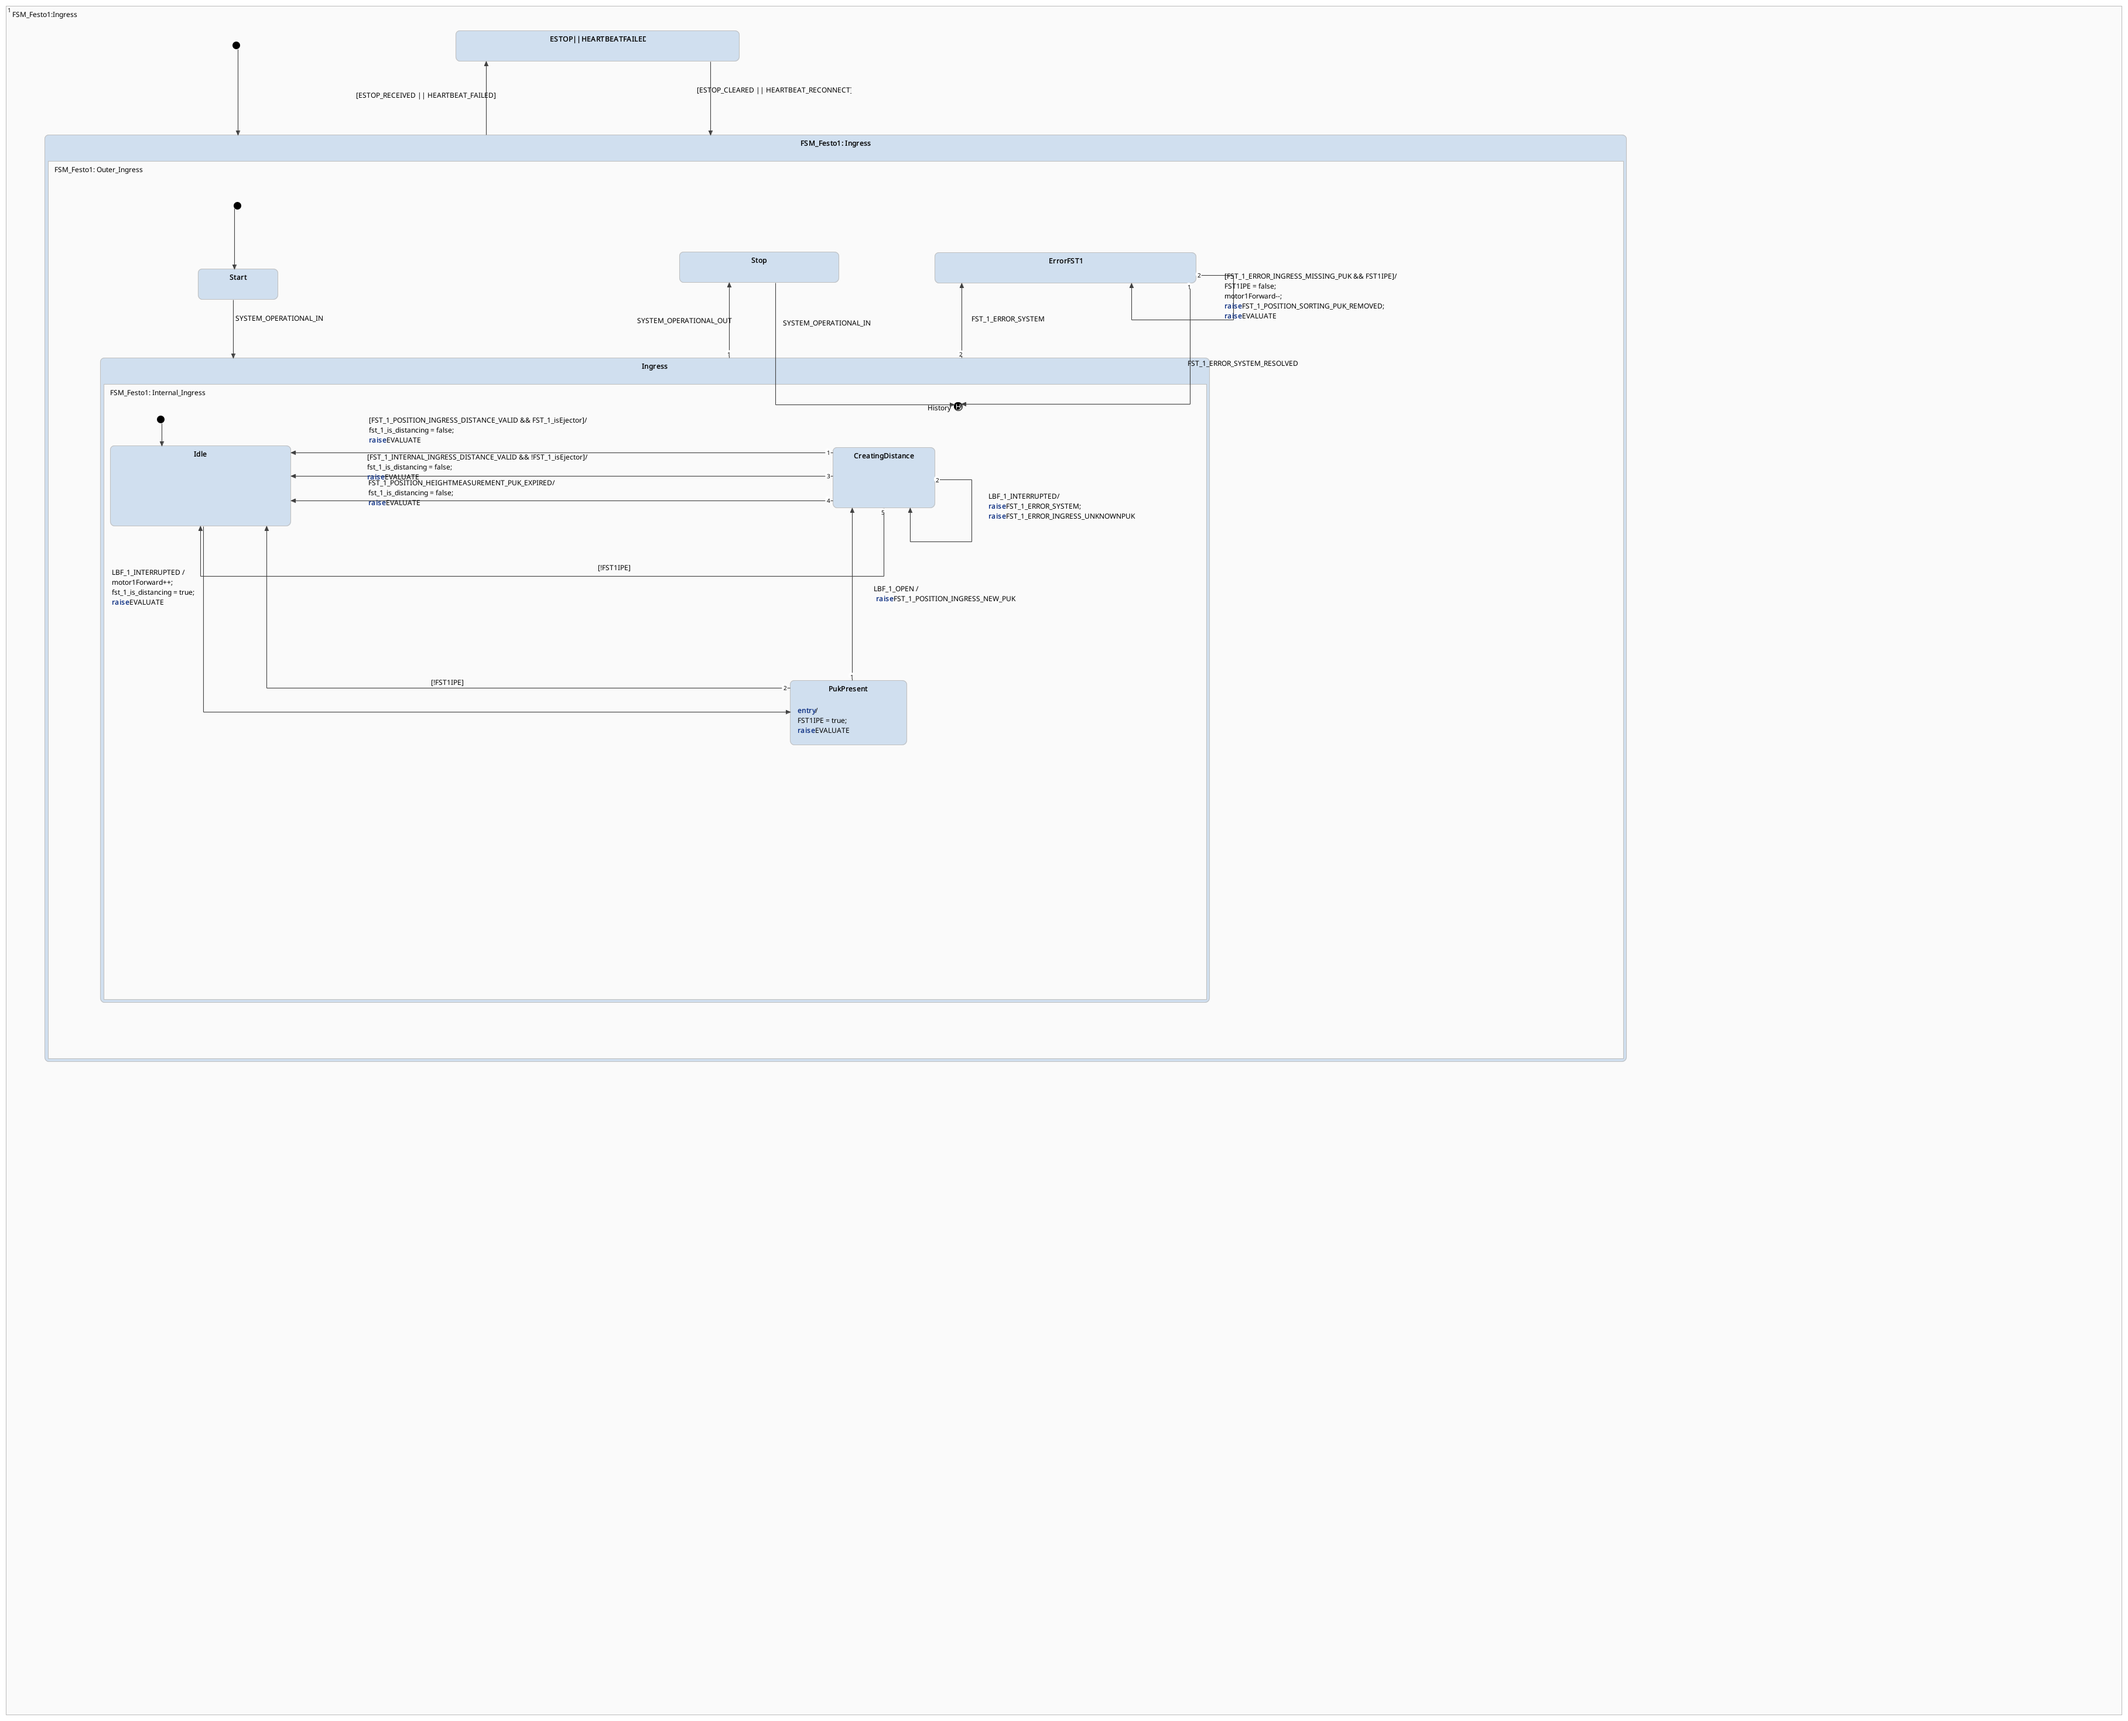
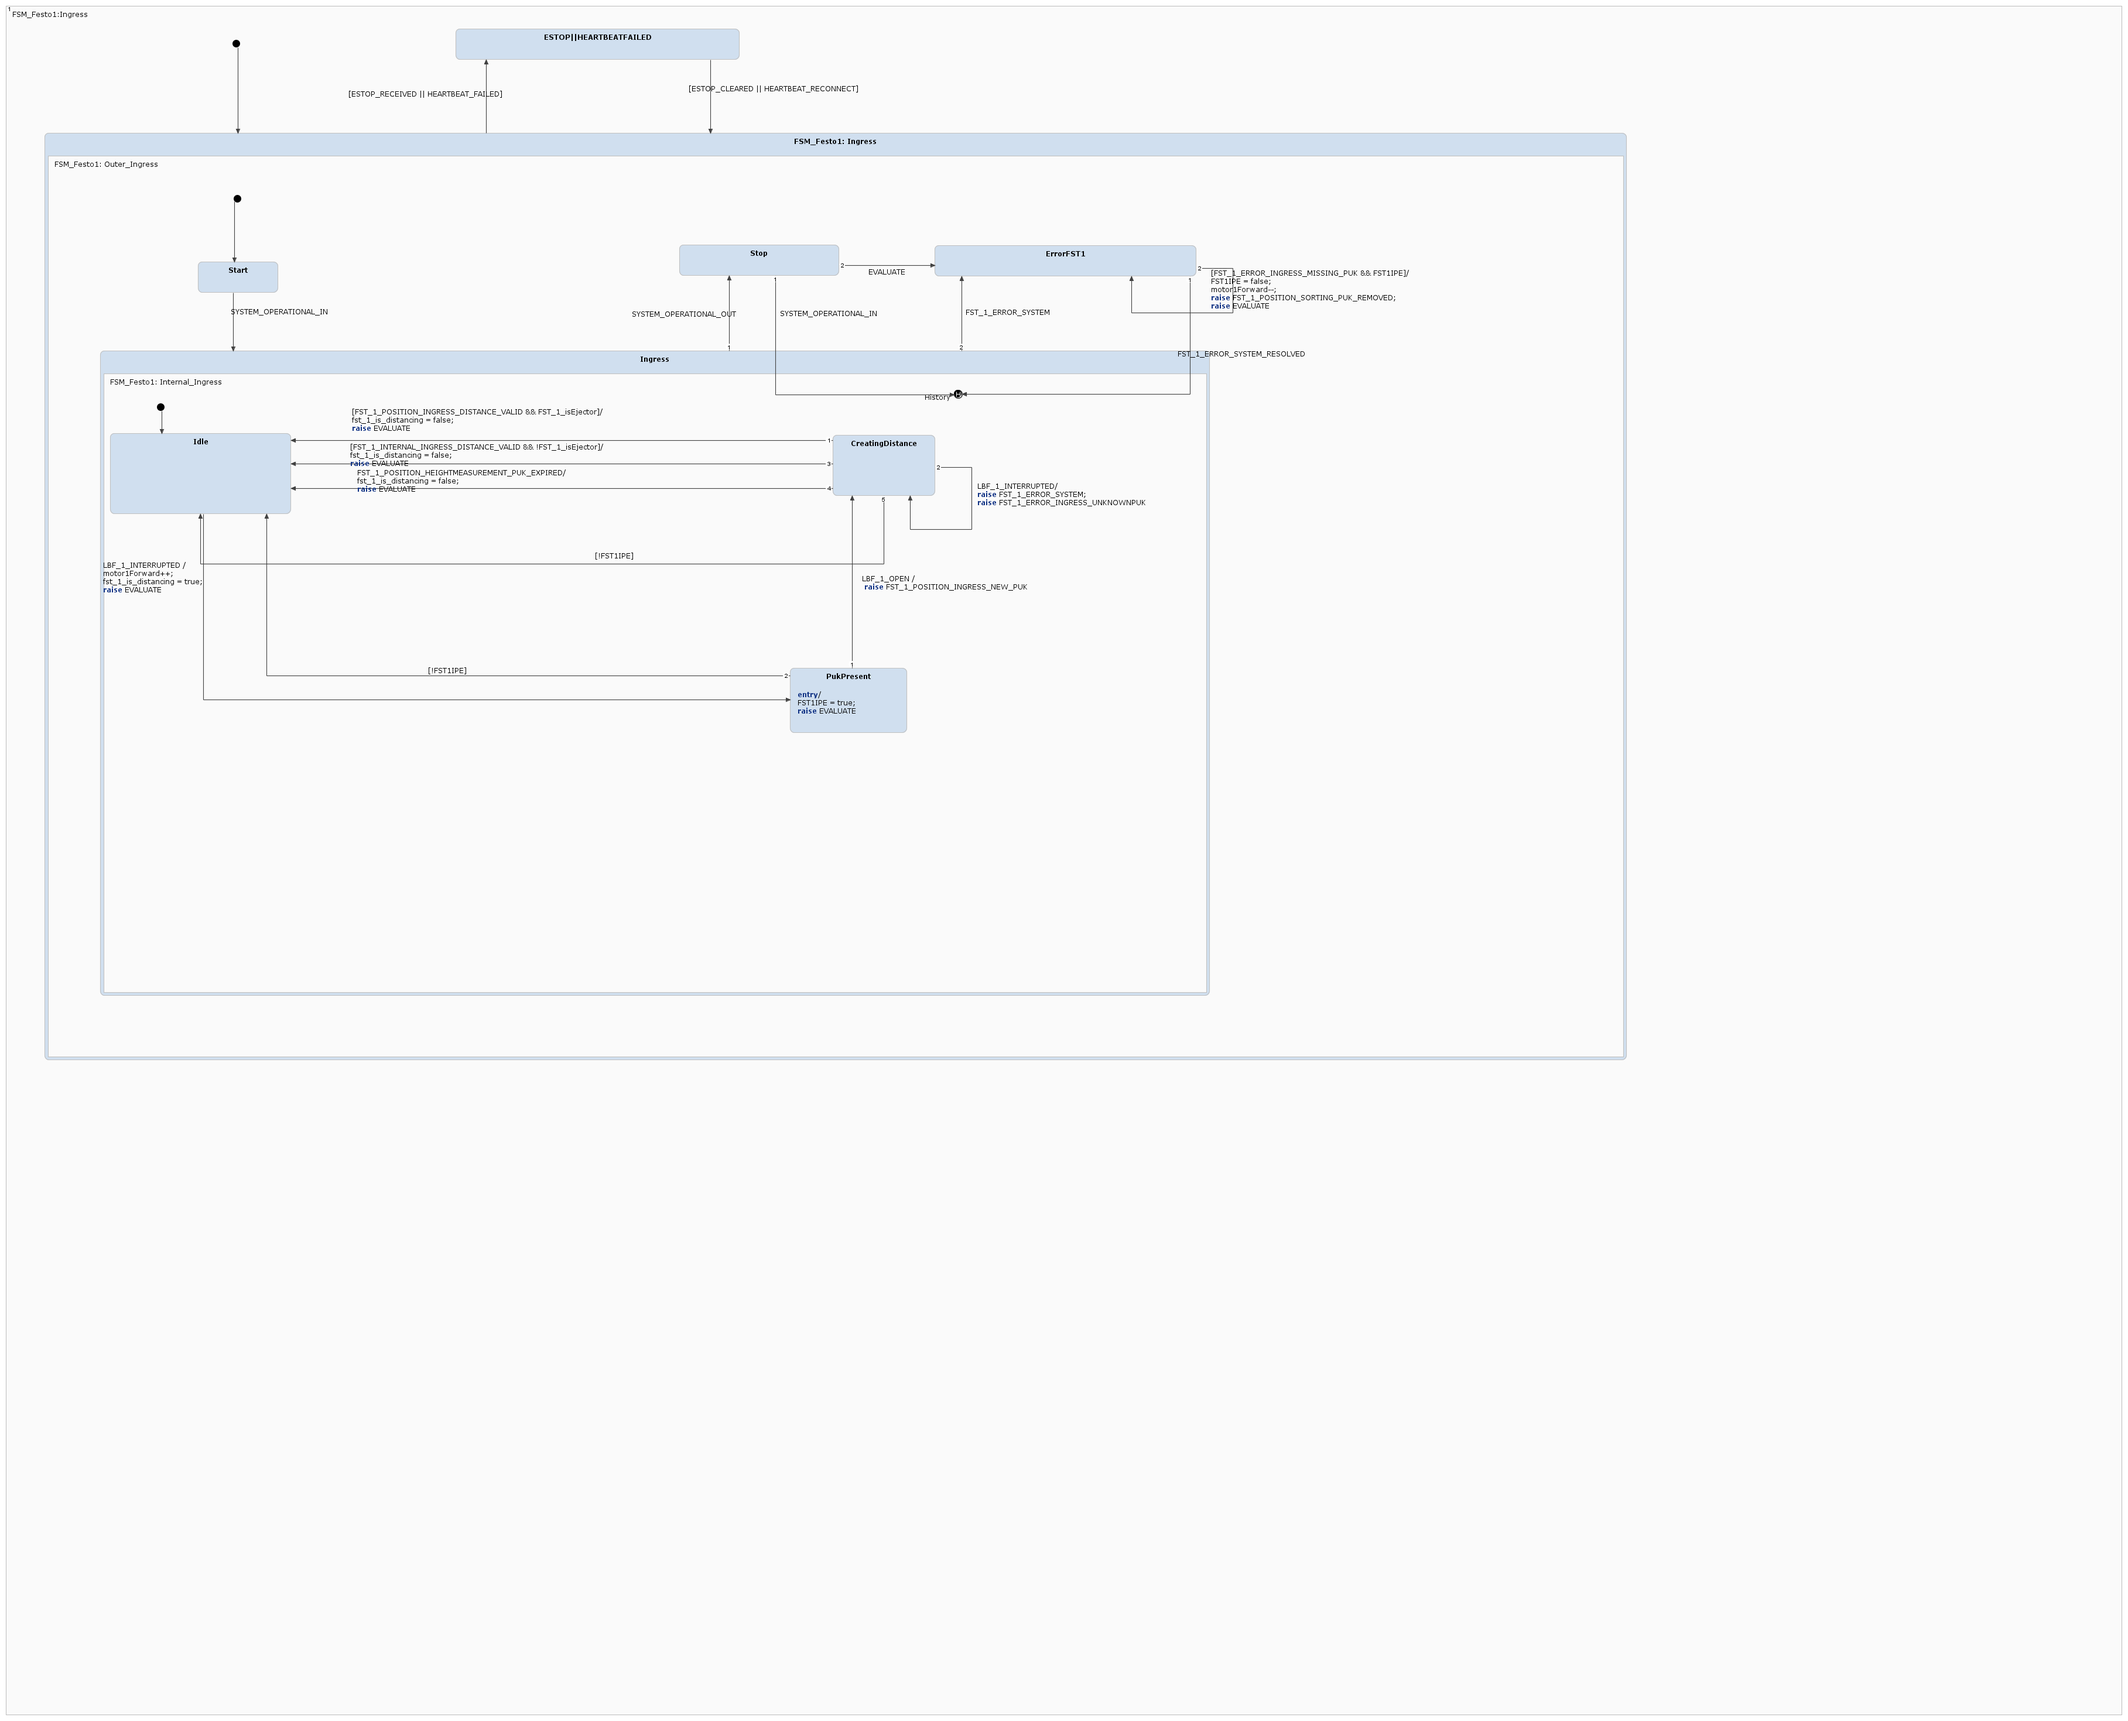
Add erronious logic to ingress1 FSM

diff --git a/src/FSM/gen/src-gen/FSM.cpp b/src/FSM/gen/src-gen/FSM.cpp
@@ -484,6 +484,11 @@ bool FSM::dispatchEvent(FSM::EventInstance* event) noexcept
 			local_FST_1_ERROR_INGRESS_MISSING_PUK_raised = true;
 			break;
 		}
+		case FSM::Event::Internal_local_EVALUATE:
+		{
+			local_EVALUATE_raised = true;
+			break;
+		}
 		case FSM::Event::Internal_local_ESTOP_CLEARED:
 		{
 			local_ESTOP_CLEARED_raised = true;
@@ -532,11 +537,6 @@ bool FSM::dispatchEvent(FSM::EventInstance* event) noexcept
 		case FSM::Event::Internal_local_FST_2_ERROR_EGRESS_MISSING_PUK:
 		{
 			local_FST_2_ERROR_EGRESS_MISSING_PUK_raised = true;
-			break;
-		}
-		case FSM::Event::Internal_local_EVALUATE:
-		{
-			local_EVALUATE_raised = true;
 			break;
 		}
 		case FSM::Event::Internal_local_FST_1_ERROR_HM_UNKNOWNPUK:
@@ -2109,6 +2109,12 @@ void FSM::raiseLocal_FST_1_ERROR_INGRESS_MISSING_PUK() {
 }
 
 
+void FSM::raiseLocal_EVALUATE() {
+	internalEventQueue.push_back(new FSM::EventInstance(FSM::Event::Internal_local_EVALUATE))
+	;
+}
+
+
 void FSM::raiseLocal_ESTOP_CLEARED() {
 	internalEventQueue.push_back(new FSM::EventInstance(FSM::Event::Internal_local_ESTOP_CLEARED))
 	;
@@ -2165,12 +2171,6 @@ void FSM::raiseLocal_FST_2_ERROR_HM_MISSING_PUK() {
 
 void FSM::raiseLocal_FST_2_ERROR_EGRESS_MISSING_PUK() {
 	internalEventQueue.push_back(new FSM::EventInstance(FSM::Event::Internal_local_FST_2_ERROR_EGRESS_MISSING_PUK))
-	;
-}
-
-
-void FSM::raiseLocal_EVALUATE() {
-	internalEventQueue.push_back(new FSM::EventInstance(FSM::Event::Internal_local_EVALUATE))
 	;
 }
 
@@ -14366,7 +14366,16 @@ sc::integer FSM::FSM_Festo1_Ingress_FSM_Festo1__Ingress_FSM_Festo1__Outer_Ingres
 				react_FSM_Festo1_Ingress_FSM_Festo1__Ingress_FSM_Festo1__Outer_Ingress_Ingress_FSM_Festo1__Internal_Ingress_History();
 				FSM_Festo1_Ingress_FSM_Festo1__Ingress_react(0);
 				transitioned_after = 0;
-			} 
+			}  else
+			{
+				if (local_EVALUATE_raised)
+				{ 
+					exseq_FSM_Festo1_Ingress_FSM_Festo1__Ingress_FSM_Festo1__Outer_Ingress_Stop();
+					enseq_FSM_Festo1_Ingress_FSM_Festo1__Ingress_FSM_Festo1__Outer_Ingress_ErrorFST1_default();
+					FSM_Festo1_Ingress_FSM_Festo1__Ingress_react(0);
+					transitioned_after = 0;
+				} 
+			}
 		} 
 		/* If no transition was taken */
 		if ((transitioned_after) == (transitioned_before))
@@ -23950,6 +23959,7 @@ void FSM::clearInternalEvents() noexcept {
 	local_FST_1_ERROR_SYSTEM_raised = false;
 	local_FST_1_INTERNAL_INGRESS_DISTANCE_VALID_raised = false;
 	local_FST_1_ERROR_INGRESS_MISSING_PUK_raised = false;
+	local_EVALUATE_raised = false;
 	local_ESTOP_CLEARED_raised = false;
 	local_FST_2_NOT_READY_raised = false;
 	local_FST_2_IS_READY_raised = false;
@@ -23960,7 +23970,6 @@ void FSM::clearInternalEvents() noexcept {
 	local_FST_2_ERROR_INGRESS_MISSING_PUK_raised = false;
 	local_FST_2_ERROR_HM_MISSING_PUK_raised = false;
 	local_FST_2_ERROR_EGRESS_MISSING_PUK_raised = false;
-	local_EVALUATE_raised = false;
 	local_FST_1_ERROR_HM_UNKNOWNPUK_raised = false;
 	local_FST_1_ERROR_SORTING_UNKNOWNPUK_raised = false;
 	local_FST_1_ERROR_RAMPFULL_UNKNOWNPUK_raised = false;

diff --git a/src/FSM/gen/src-gen/FSM.h b/src/FSM/gen/src-gen/FSM.h
@@ -601,6 +601,7 @@ class FSM : public sc::EventDrivenInterface
 			Internal_local_FST_1_ERROR_SYSTEM,
 			Internal_local_FST_1_INTERNAL_INGRESS_DISTANCE_VALID,
 			Internal_local_FST_1_ERROR_INGRESS_MISSING_PUK,
+			Internal_local_EVALUATE,
 			Internal_local_ESTOP_CLEARED,
 			Internal_local_FST_2_NOT_READY,
 			Internal_local_FST_2_IS_READY,
@@ -611,7 +612,6 @@ class FSM : public sc::EventDrivenInterface
 			Internal_local_FST_2_ERROR_INGRESS_MISSING_PUK,
 			Internal_local_FST_2_ERROR_HM_MISSING_PUK,
 			Internal_local_FST_2_ERROR_EGRESS_MISSING_PUK,
-			Internal_local_EVALUATE,
 			Internal_local_FST_1_ERROR_HM_UNKNOWNPUK,
 			Internal_local_FST_1_ERROR_SORTING_UNKNOWNPUK,
 			Internal_local_FST_1_ERROR_RAMPFULL_UNKNOWNPUK,
@@ -3421,6 +3421,12 @@ class FSM : public sc::EventDrivenInterface
 		/*! Raises the out event 'local_FST_1_ERROR_INGRESS_MISSING_PUK' of internal scope as a local event. */
 		void raiseLocal_FST_1_ERROR_INGRESS_MISSING_PUK();
 		
+		/*! Indicates event 'local_EVALUATE' of internal scope is active. */
+		bool local_EVALUATE_raised {false};
+		
+		/*! Raises the out event 'local_EVALUATE' of internal scope as a local event. */
+		void raiseLocal_EVALUATE();
+		
 		/*! Indicates event 'local_ESTOP_CLEARED' of internal scope is active. */
 		bool local_ESTOP_CLEARED_raised {false};
 		
@@ -3480,12 +3486,6 @@ class FSM : public sc::EventDrivenInterface
 		
 		/*! Raises the out event 'local_FST_2_ERROR_EGRESS_MISSING_PUK' of internal scope as a local event. */
 		void raiseLocal_FST_2_ERROR_EGRESS_MISSING_PUK();
-		
-		/*! Indicates event 'local_EVALUATE' of internal scope is active. */
-		bool local_EVALUATE_raised {false};
-		
-		/*! Raises the out event 'local_EVALUATE' of internal scope as a local event. */
-		void raiseLocal_EVALUATE();
 		
 		/*! Indicates event 'local_FST_1_ERROR_HM_UNKNOWNPUK' of internal scope is active. */
 		bool local_FST_1_ERROR_HM_UNKNOWNPUK_raised {false};
